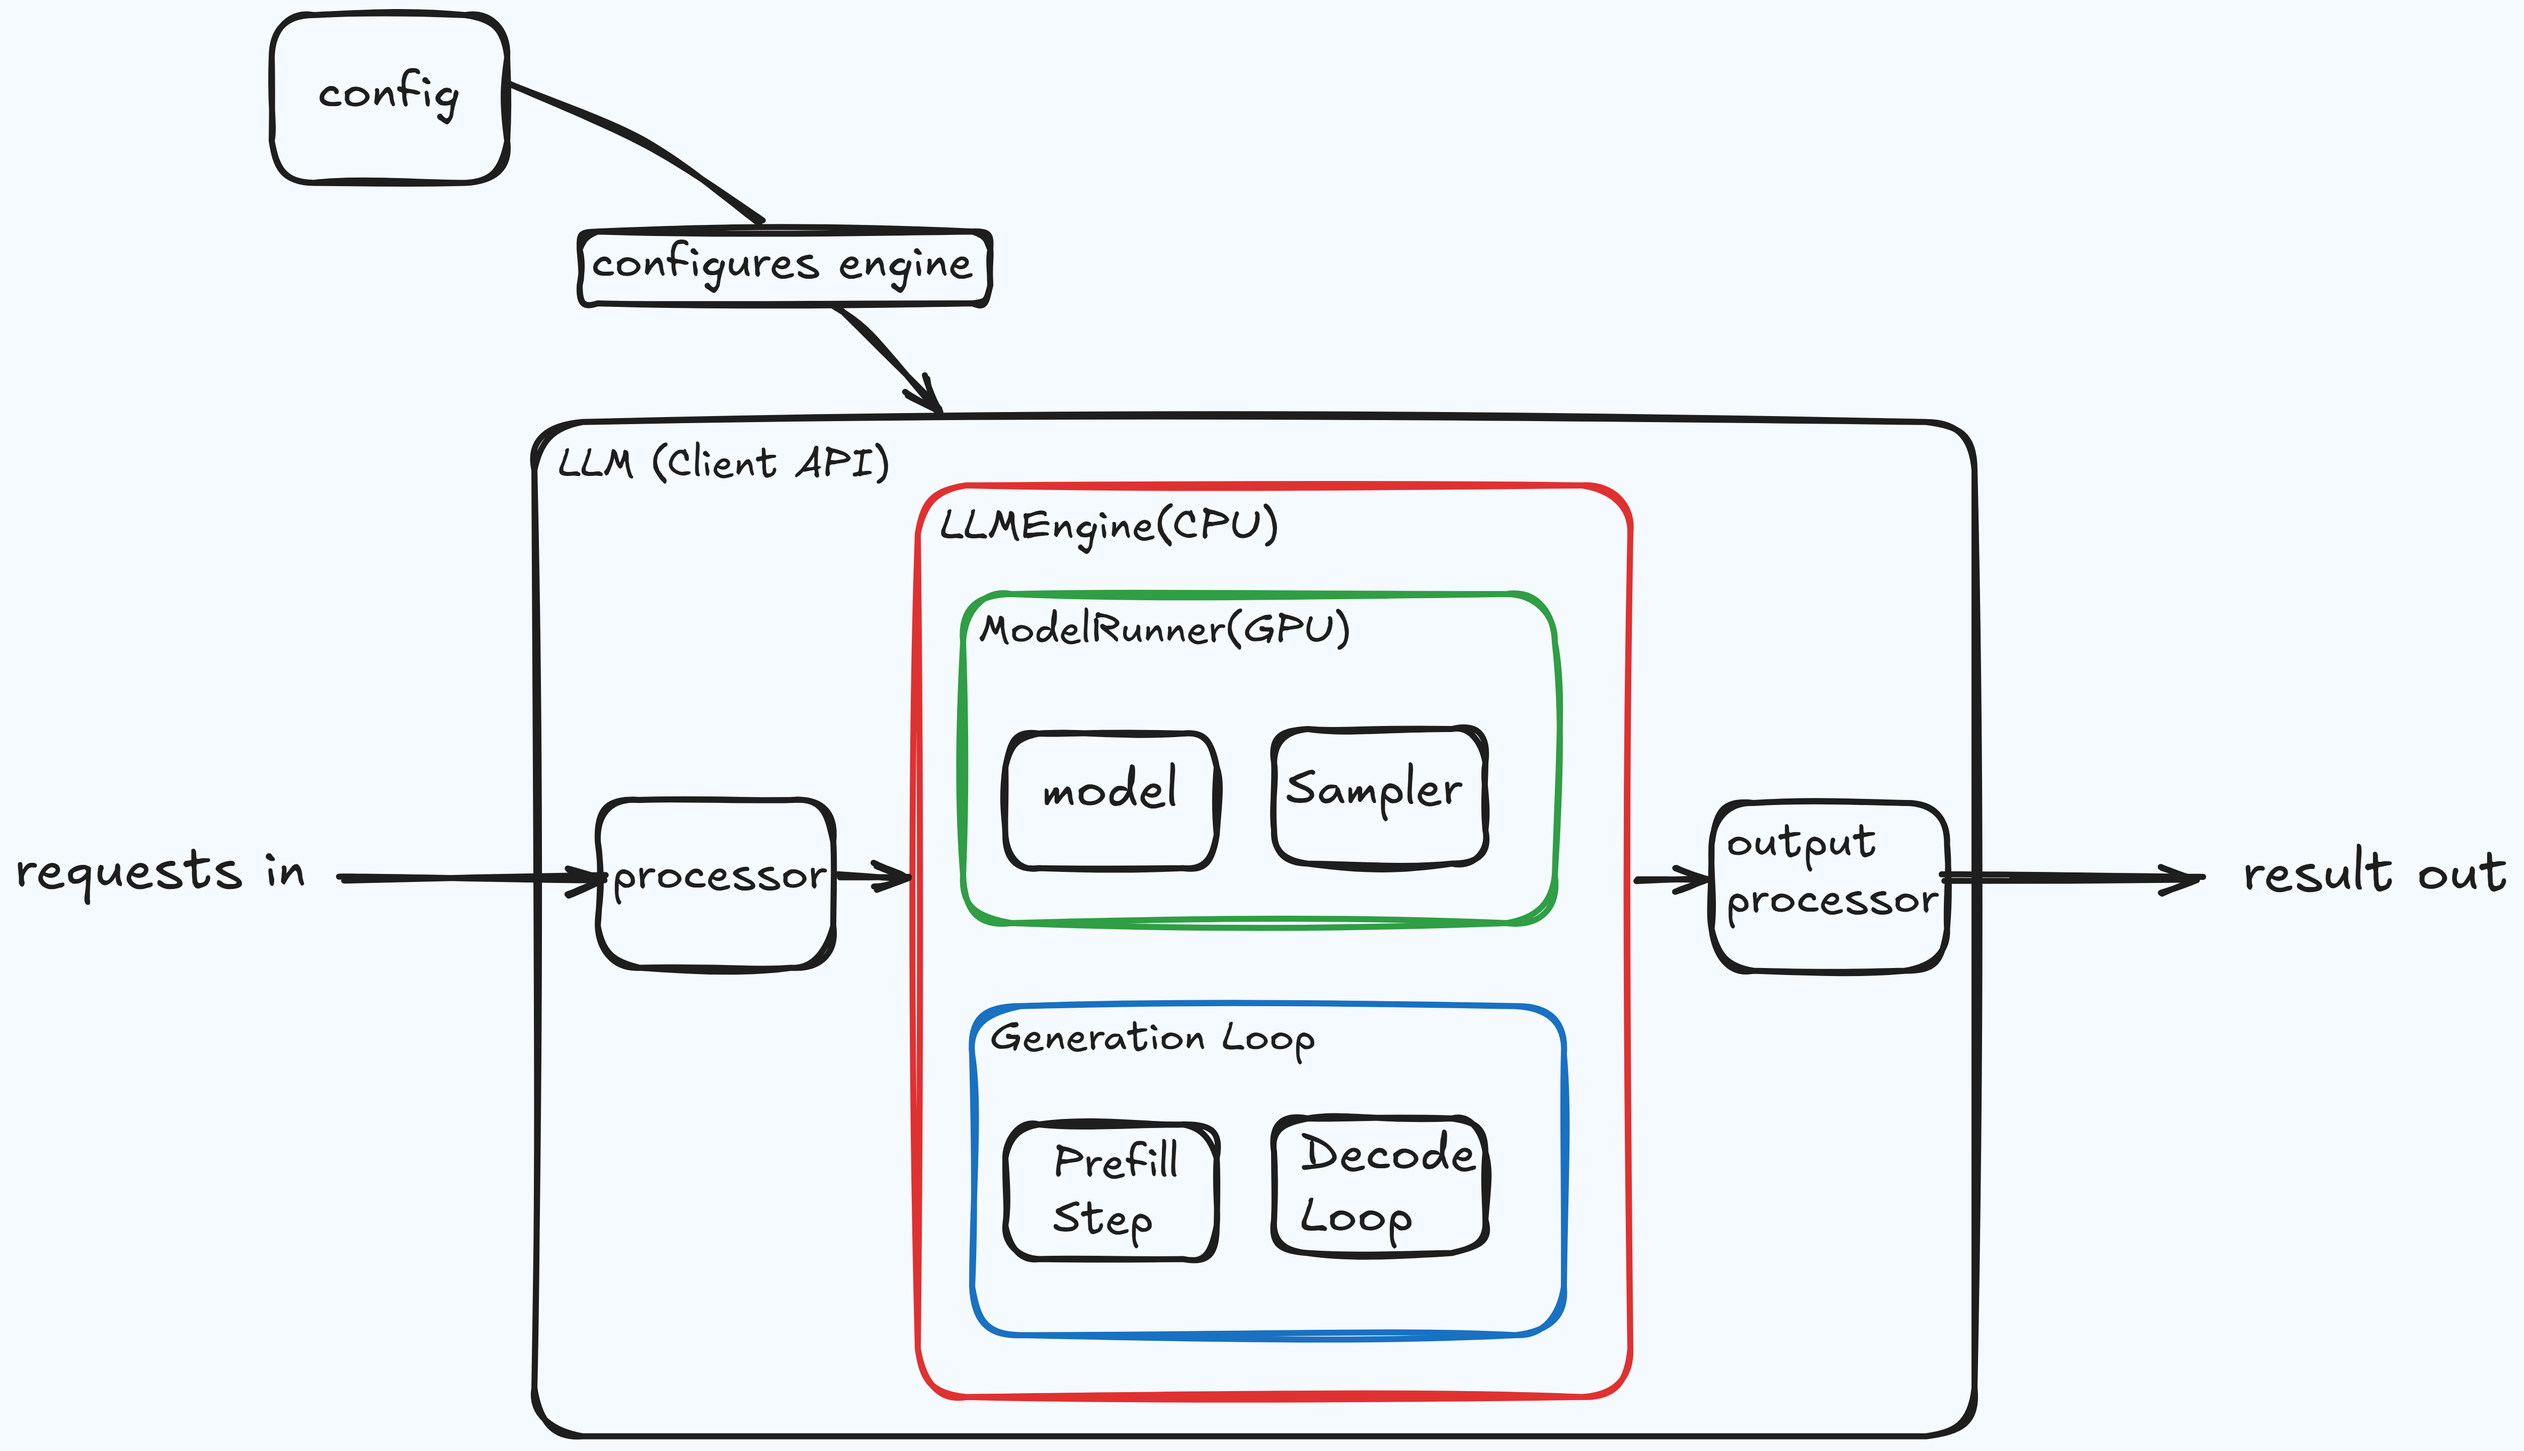
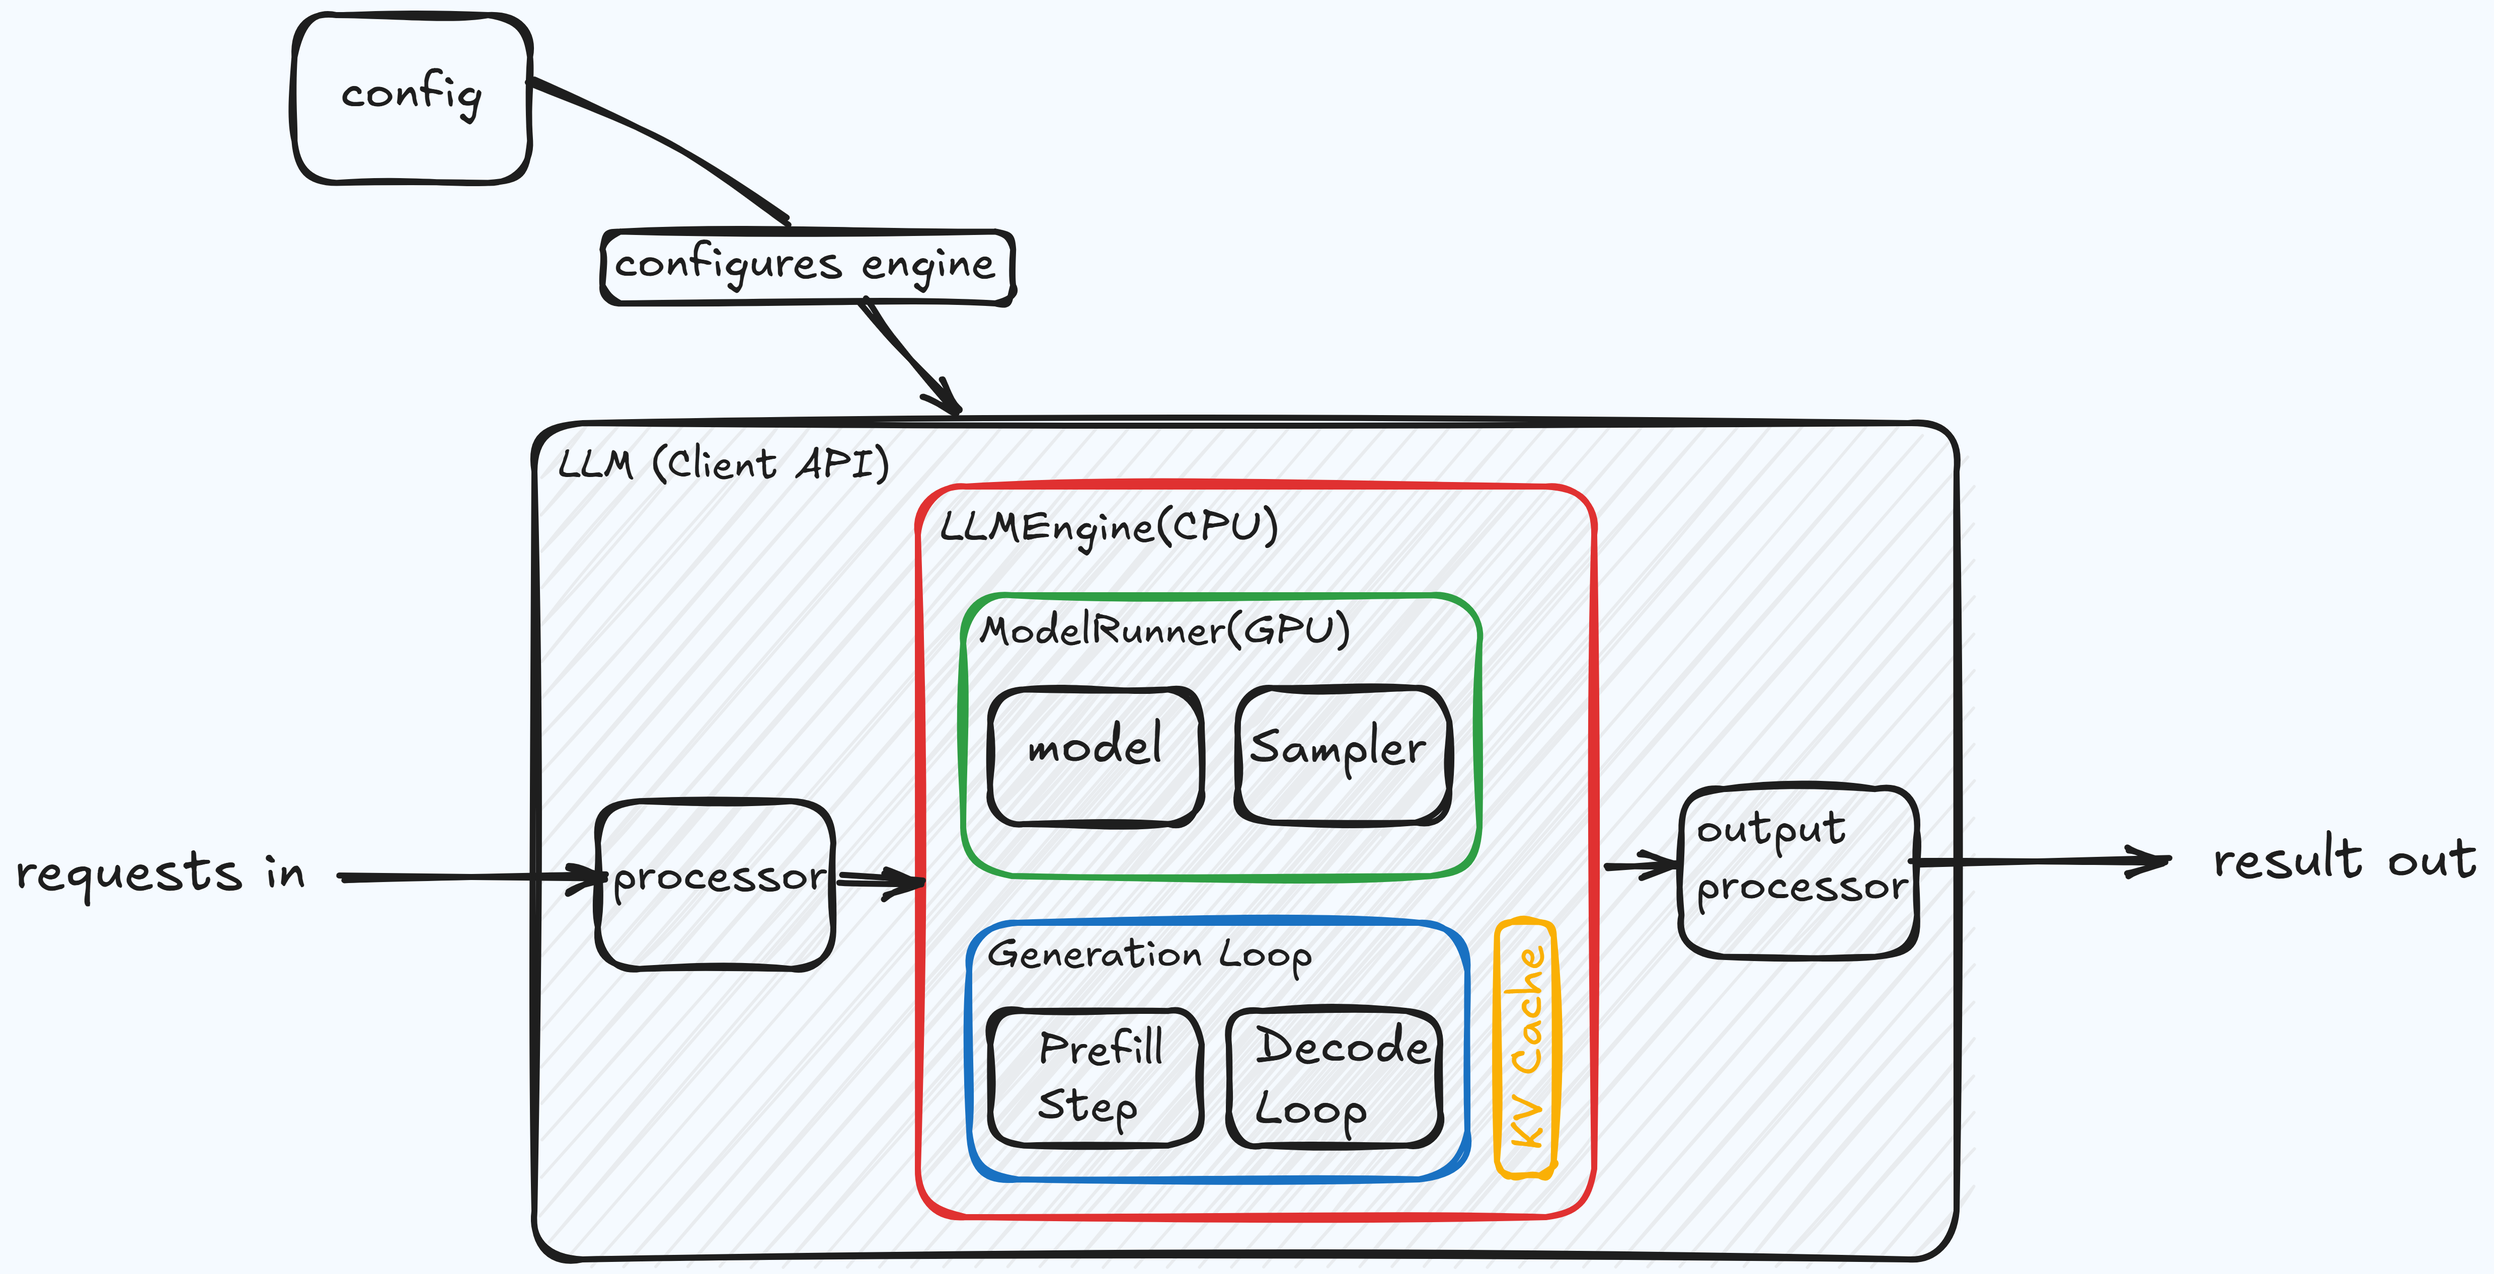
blog: add KV cache section to LLM inference post
- add KV Cache: idea, flow (prefill/decode), benchmark up to batch 256
- update engine.png and add kv_cache.jpg
- bump last_updated to 2026-09-01

diff --git a/_posts/2026-02-24-llm-inference.md b/_posts/2026-02-24-llm-inference.md
@@ -1,9 +1,8 @@
 ---
 layout: post
 title: "LLM Inference Engine"
-subtitle: "Building nano-infer from scratch — baseline, benchmarks, and the road ahead"
 date: 2026-02-24
-last_updated: 2026-08-25
+last_updated: 2026-09-1
 category: systems
 project: "llm-inference"
 ---
@@ -21,6 +20,9 @@ All benchmarks run on an L4 GPU. The model is [Qwen3-0.6B](https://huggingface.c
 1. [The Engine](#the-engine)
 2. [The Baseline](#the-baseline)
    - [Benchmark](#benchmark)
+3. [KV Cache](#kv-cache)
+   - [The Idea](#the-idea)
+   - [Benchmark](#benchmark-1)
 
 ## The Engine
 Here is the whole engine:
@@ -30,7 +32,7 @@ Here is the whole engine:
 </p>
 
 **LLM**: what you touch. You give it text, it gives text back. That's it.<br>
-**LLMEngine**: the CPU orchestrator. It tokenizes the input and runs the generation loop: prefill once, then decode step by step.<br>
+**LLMEngine**: the CPU orchestrator. It turns text into tokens, manages the KV cache, and drives the core loop: prefill, then decode token by token.<br>
 **ModelRunner**: the GPU executor. Owns the model and sampler, runs the forward pass, returns logits. All the heavy math lives here.
 
 ## The Baseline
@@ -86,4 +88,59 @@ Let's see what happens as the batch size goes up.
 This is the baseline. Slow, doing far too much work per token.
 
 
-The code is on the [baseline branch](https://github.com/shehab-ashraf/llm-inference/tree/baseline).
+The code is on the [baseline](https://github.com/shehab-ashraf/llm-inference/tree/improved-baseline) branch.
+
+## KV Cache
+
+The baseline re-runs the whole sequence through the entire model on every decode step, just to get one new token. Those tokens never change. All of that recomputation is wasted work.
+
+### The Idea
+
+Look at what happens inside attention. Every token is projected into three vectors: `Q` (query), `K` (key), and `V` (value). Attention scores the queries against the keys, then uses those scores to weight the values. K and V of past tokens never change. Once a token is computed, its K and V vectors are permanently fixed and completely unaffected by future tokens. The only new thing a decode step brings is the Q, K, and V of that one new token. So compute them once and keep them. Store every token's K and V the first time we see it, then read them back instead of recomputing. 
+
+The flow becomes:
+
+**Prefill**: the full prompt goes through the model in one shot, like before. On the way, every layer writes its K and V into the cache.
+
+**Decode**: only the new token goes through the model. It gets one Q, one K, one V. The cached K and V are restored, the new K and V are appended, and this single Q attends over the whole history. One token in, one token out. Nothing is computed twice.
+
+<p align="center">
+  <img src="{{ site.baseurl }}/assets/img/kv_cache.jpg" alt="KV cache: prefill caches K and V, decode restores them and appends the new token" width="900" />
+</p>
+
+### Benchmark
+
+Same setup: 128-token prompts, 256 generated tokens, batch sizes 1 to 256.
+
+```text
+Qwen3-0.6B | 596M params | torch.bfloat16 | cuda
+  28L / 16H / 128D | loaded in 10.9s | 1.13 GB VRAM
+
+Warmup...
+
+Benchmark
+Prompt length: 128 | Max tokens: 256
+
+Batch | Time (s) | TTFT (s) | TPOT (s) | VRAM (GB) |    TPS
+------------------------------------------------------------
+    1 |    9.318 |    0.045 |    0.036 |     1.184 |   27.5
+    4 |    9.303 |    0.051 |    0.036 |     1.323 |  110.1
+    8 |    9.241 |    0.044 |    0.036 |     1.505 |  221.6
+   16 |    9.327 |    0.078 |    0.036 |     1.873 |  439.2
+   32 |    9.591 |    0.194 |    0.037 |     2.609 |  854.2
+   64 |    9.897 |    0.485 |    0.037 |     4.079 | 1655.5
+  128 |   10.338 |    1.080 |    0.036 |     7.021 | 3169.8
+  256 |   14.802 |    2.175 |    0.049 |    12.904 | 4427.4
+```
+
+Here is what changed compared to the baseline:
+
+**TPOT:** In the baseline, the time to generate a token (TPOT) increased as batch size grew, taking over 1 second at batch 64. With the KV cache, TPOT stays at 36 milliseconds from batch 1 all the way to batch 128. The time barely increases as the batch size grows. it stays almost constant, with even batch 256 taking only 49ms.
+
+**Memory Bound:** The time per token stays mostly stable between batch 1 and 128 because the generation step is memory-bound. Generating a single token requires very little math. The GPU finishes the calculations almost instantly, and spends most of its time waiting for data (like the weights for each layer, the KV cache, and activations) to arrive from VRAM. The GPU can load the extra data for up to 128 sequences with zero slowdown. Only at batch 256 does the amount of data finally push the time up to 49ms.
+
+**The VRAM Cost:** This scaling requires more memory. We are trading VRAM for compute speed. At batch 1, the cache uses about 50 MB. At batch 256, storing the Keys and Values for all sequences uses nearly 12 GB of VRAM. We shifted the bottleneck from compute to memory.
+
+By using VRAM to store past states, we remove redundant calculations, keep generation time constant, and increase throughput to over 4k tokens per second.
+
+The code is on the [kv-cache](https://github.com/shehab-ashraf/llm-inference/tree/kv-cache) branch.
